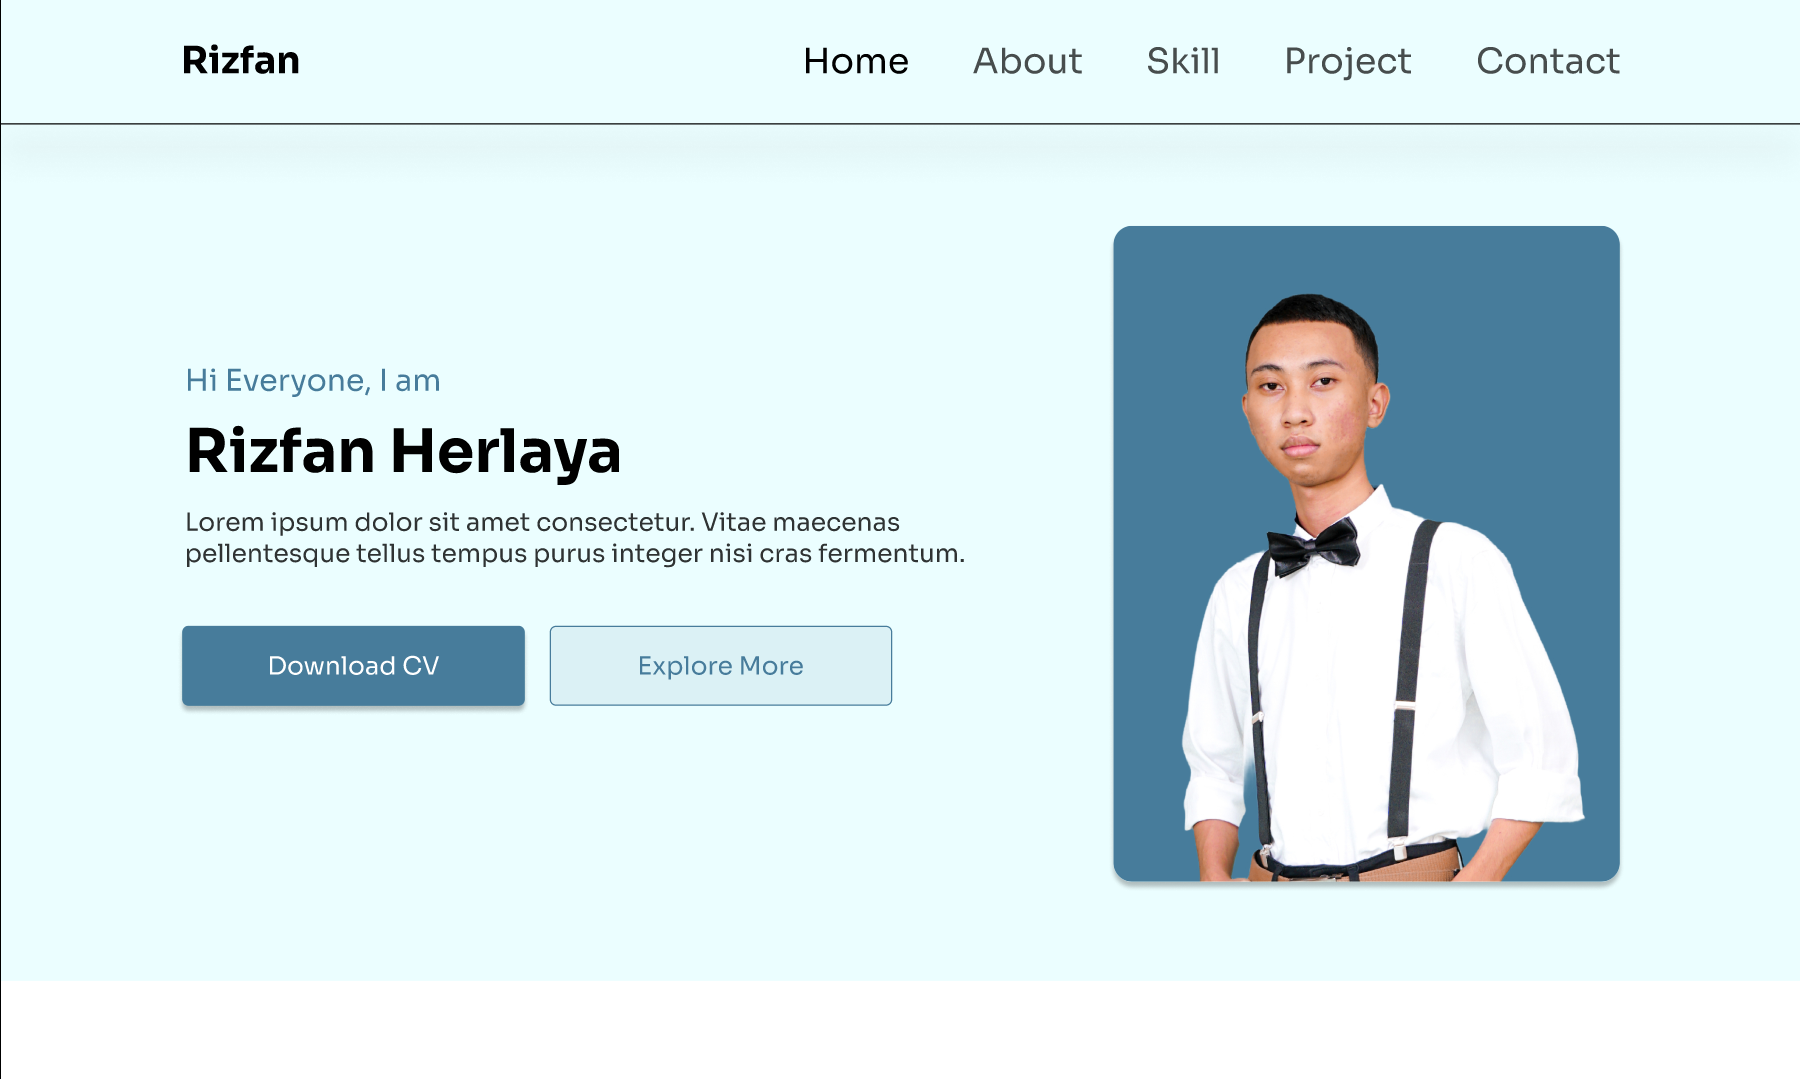
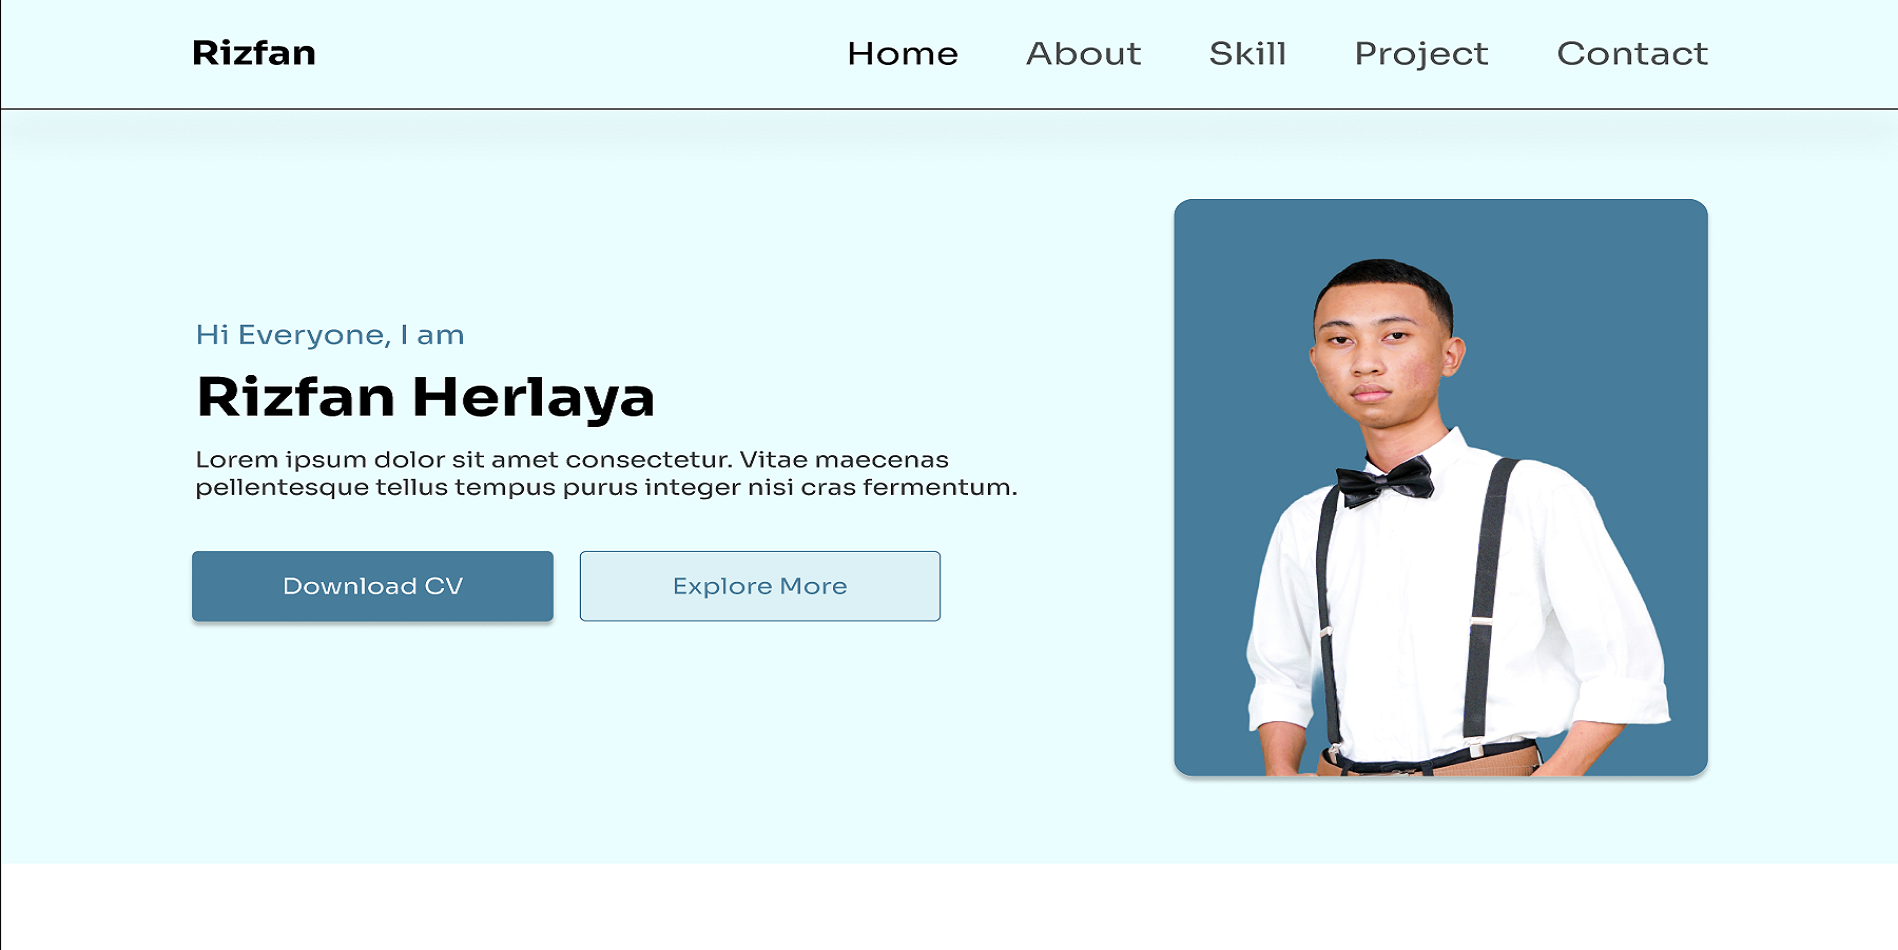
projet bakeli2

diff --git a/index.html b/index.html
@@ -3,42 +3,41 @@
 <head>
     <meta charset="UTF-8">
     <meta name="viewport" content="width=device-width, initial-scale=1.0">
-    <title>Document</title>
+    <title>Document</title> <source>
     <link rel="stylesheet" href="style.css">
+    <script src="bootstrap/js/bootstrap.min.js"></script>
     <link rel="stylesheet" href="bootstrap/css/bootstrap.min.css">
     
 </head>
 <body>
-    <nav id="nav" class="navbar navbar-expand-lg navbar-light sticky-top ">
-        <div class="container-fluid">
-          <a class="navbar-brand fw-bold " href="#">FRIZAN</a>
-          <button class="navbar-toggler collapsed" type="button" data-bs-toggle="collapse" data-bs-target="#navbarSupportedContent" aria-controls="navbarSupportedContent" aria-expanded="false" aria-label="Toggle navigation">
-            <span class="navbar-toggler-icon"></span>
-          </button>
-          <div>
-            <div class="navbar-collapse collapse" id="navbarSupportedContent" style="">
-                <ul  class="navbar-nav ms-auto mb-2 mb-lg-0">
-                  <li class="nav-item">
-                    <a  class="nav-link active" aria-current="page" href="#">Home</a>
-                  </li>
-                  <li class="nav-item">
-                    <a class="nav-link active" aria-current="page" href="#">About</a>
-                  </li>
-                  <li class="nav-item">
-                    <a class="nav-link active" aria-current="page" href="#"> Skill</a>
-                  </li>
-                  <li class="nav-item">
-                    <a class="nav-link active" aria-current="page" href="#">Project</a>
-                  </li>
-                  <li class="nav-item">
-                    <a class="nav-link active" aria-current="page" href="#">Contact</a>
-                  </li>
-                </ul>
-              </div>
-          </div>
+        <nav id="navv" class="navbar navbar-expand-lg navbar-light ">
+           <strong> <a class="navbar-brand" href="#">Rizfan</a> </strong> 
+            <button class="navbar-toggler" type="button" data-toggle="collapse" data-target="#navbarSupportedContent" aria-controls="navbarSupportedContent" aria-expanded="false" aria-label="Toggle navigation">
+              <span class="navbar-toggler-icon"></span>
+            </button>
           
-        </div>
-    </nav>
+            <div class="collapse navbar-collapse" id="navbarSupportedContent">
+              <ul class="navbar-nav ml-auto">
+                <li class="nav-item active">
+                  <a class="nav-link" href="#">Home <span class="sr-only">(current)</span></a>
+                </li>
+                <li class="nav-item">
+                  <a class="nav-link" href="#">About</a>
+                </li>
+                <li class="nav-item">
+                  <a class="nav-link" href="#">Skill</a>
+                </li>
+                <li class="nav-item">
+                  <a class="nav-link" href="#">Project</a>
+                </li>
+                <li class="nav-item">
+                  <a class="nav-link" href="#">Contact</a>
+                </li>
+              </ul>
+            </div>
+          </nav>
+ 
+   
     
         
     <div class="tout2">
@@ -52,8 +51,14 @@
                          repre eaque nisi ea minus distinctio 
                      </p>
                      </div>
-                     <input class="down" type="button" value="Download Cv">
-                     <input type="button" value="Explore More">
+                     <div>
+                        <button class="dwcv" type="submit">Download Cv
+                            <img class="dwn" src="image/dwn.png" alt="">
+                        </button>
+                        <button id="cvv" type="submit">Explore More
+
+                        </button>
+                     </div>
                  </div>
                  <div id="d2" class="col-md-4 col-sm-12">
                      <section class="sec">
@@ -90,7 +95,7 @@
             </div>
         </div>
     </div>
-    <div id="cont" class="containere">
+    <div id="cont" class=" col-12 containere">
         <div class="col">
             <h5 class="Skill">Skills</h5>
             <h2>What I am capable of?</h2>
@@ -108,55 +113,108 @@
         </div>
     </div>
 
-    <div id="conf" class="container">
-        <div class="">
-            <div class="pro">
-                <h5 class="Skill">Projet</h5>
-                <h1>What I have made?</h1><br>
-            </div>
-            
-            <div class="row">
-                <div id="moo" class="col" > 
-                    <img class="ho1" src="image/homme1.png" alt="">
-                    <h6>Portfolio Website Designe</h6>
-                    <p>Lorem ipsum dolor sit consecteur.</p>
-                    <p class="figma">figma</p>
+    <div class="porfo">
+        <section class="div">
+            <div class="container">
+                <h5 class="Skill">Projects</h5>
+                        <h2>What I have made?</h2><br>
+                <div class="row ">
+                    <div class="col-md-4" >
+                            <div class="box">
+                                <img src="image/homme1.png" alt="" width="289">
+                                <div class="figma">
+                                    <p><strong>Porfolio Website Design</strong><br>
+                                        lorem ipsum sit amet consectetur
+                                    </p>
+                                    <p class="Ho">Figma</p>
+                                </div>
+                            </div>
+                    </div>
+                    
+                    <div class="col-md-4">
+                        <div class="box">
+                            <img src="image/homme2.png" alt="" width="289">
+                            <div class="figma">
+                                <p><strong>LitterCycle Echange</strong><br>
+                                    lorem ipsum sit amet consectetur
+                                </p>
+                                <p class="Ho">Live view &nbsp;&nbsp;&nbsp;&nbsp; Github &nbsp;&nbsp;&nbsp;&nbsp; Figma</p>
+                                
+                            </div>
+                        </div>
+                    </div> 
+                
+                    <div class="col-md-4">
+                        <div class="box">
+                            <img src="image/homme3.png" alt="" width="289">
+                            <div class="figma">
+                                <p><strong>Edubix</strong><br>
+                                        lorem ipsum sit amet consectetur
+                                    </p>
+                                    <p class="Ho">Live view &nbsp;&nbsp;&nbsp;&nbsp; Github</p>
+                                    
+                                </div>
+                            </div>
+                        </div>  
+                                
+                    
+                    </div>
                 </div>
-                <div id="moo" class="col"> 
-                    <img class="ho1" src="image/homme2.png" alt="">
-                    <h6>Portfolio Website Designe</h6>
-                    <p>Lorem ipsum dolor sit consecteur.</p>
-                    <p class="figma">figma</p>
-                </div>
-                <div id="moo" class="col"> 
-                    <img class="ho1" src="image/homme3.png" alt="">
-                    <h6>Portfolio Website Designe</h6>
-                    <p>Lorem ipsum dolor sit consecteur.</p>
-                    <p class="figma">figma</p>
-                </div>
             </div>
-        </div>
-        <div id="id" class="row">
-            <div id="moo" class="col">
-                <img class="ho1" src="image/homme4.png" alt="">
-                <h6>PPDB SMK Telesandi Bekasi</h6>
-                <p>Lorem ipsum dolor sit consecteur.</p>
-                <p class="figma">Live view</p>
-            </div>
-            <div id="moo" class="col">
-                <img class="ho1" src="image/homme4.png" alt="">
-                <h6>PPDB SMK Telesandi Bekasi</h6>
-                <p>Lorem ipsum dolor sit consecteur.</p>
-                <p class="figma">Live view</p>
-            </div>
-            <div id="moo" class="col">
-                <img class="ho1" src="image/homme4.png" alt="">
-                <h6>PPDB SMK Telesandi Bekasi</h6>
-                <p>Lorem ipsum dolor sit consecteur.</p>
-                <p class="figma">Live view</p>
-            </div>
-        </div>
+        </section>
     </div>
+    <div class="porfo">
+        <section class="div">
+            <div class="container">
+                <div class="row ">
+                    <div class="col-md-4" >
+                        
+                        <div class="box">
+                            <img src="image/homme4.png" alt="" width="289">
+                            <div class="figma">
+                                <p><strong>PPDB SMK Telesanl Bekasi</strong><br>
+                                    lorem ipsum sit amet consectetur
+                                </p>
+                                <p class="Ho">Live view</p>
+                            </div>
+                        </div>
+                    </div>
+                    
+                    <div class="col-md-4">
+                        <div class="box">
+                            <img src="image/homme4.png" alt="" width="289">
+                            <div class="figma">
+                                <p><strong>PPDB SMK Telesanl Bekasi</strong><br>
+                                    lorem ipsum sit amet consectetur
+                                </p>
+                                <p class="Ho">Live view</p>
+                                
+                            </div>
+                        </div>
+                    </div> 
+                    
+                        <div class="col-md-4">
+                            <div class="box">
+                                <img src="image/homme4.png" alt="" width="289">
+                                <div class="figma">
+                                    <p><strong>PPDB SMK Telesanl Bekasi</strong><br>
+                                        lorem ipsum sit amet consectetur
+                                    </p>
+                                    <p class="Ho">Live view</p>
+                                    
+                                </div>
+                            </div>
+                        </div>  
+                            
+                
+                </div>
+            
+            </div>
+        </section>
+    </div>
+    
+    
+    
     <footer>
         <div id="fin" class="container">
             <div class="row">
@@ -179,6 +237,11 @@
         </div>
     </footer>
     
-    
+    <script src="https://ajax.googleapis.com/ajax/libs/jquery/3.5.1/jquery.min.js"></script>
+    <script src="https://cdnjs.cloudflare.com/ajax/libs/popper.js/1.16.0/umd/popper.min.js"></script>
+    <script src="https://maxcdn.bootstrapcdn.com/bootstrap/4.5.2/js/bootstrap.min.js"></script>
+
+
+
 </body>
 </html>

diff --git a/style.css b/style.css
@@ -8,17 +8,12 @@ text-align: left;
 margin-left: 150px;
 }
 
-.navbar-light .navbar-toggler {
-    color: rgba(0,0,0,.5);
-    border-color: rgba(0,0,0,.1);
-    margin-right: -200px;
-}
-   
+
 #ul{
-    margin-right: 150px;
+    margin-right: -150px;
     
 }
-#nav{
+#navv{
     
     background-color: rgb(199, 238, 203);
     border-bottom: solid 1px black;
@@ -40,14 +35,18 @@ margin-left: 150px;
     
 }
 .container{
-    background-color:  rgb(199, 238, 203);
     
-    margin-top: px;
     
 }
-#cono{
-    
+
+.Ho{
+    color: #457B9D;
 }
+
+.porfo{
+    margin-top: 30px;
+}
+
 .tout2{
     background-color:  rgb(199, 238, 203);
     margin-top: ;
@@ -62,8 +61,32 @@ margin-left: 150px;
     margin-left: -10px;
 }
 .ing{
-    width: 350px;
+    width: 269px;
     margin-top: 40px;
+}
+.dwn{
+    width: 20px  
+}
+.dwcv{ 
+    color: white;
+    text-align: center;
+    vertical-align: middle;
+    cursor: pointer;
+    background-color: #457B9D;
+    border: 1px solid #457B9D;
+    padding: .375rem .75rem;
+    border-radius: .25rem;
+}
+#cvv{
+    color:  #457B9D;
+    text-align: center;
+    vertical-align: middle;
+    cursor: pointer;
+    background-color: #457B9D 10%;
+    border: 1px solid #457B9D;
+    padding: .375rem .75rem;
+    border-radius: .25rem;
+    
 }
 .about{
     
@@ -90,29 +113,23 @@ margin-left: 150px;
 .col{
     margin-top: px;
 }
-#conf{
+
+.div{
     background-color: white;
-    
-}
-.pro{
     text-align: center;
-    margin-top: 30px;
 }
+
 .figma{
-    color: #457B9D;
-    margin-top: -10px;
+    text-align: left;
+    margin-left: 30px;
 }
 
-.ho1{
-    width: 290px;   
+.box{
+    box-shadow: 0px 4px 4px 0px #00000040;
+    flex-direction: column;
+    border: solid 1px #00000040 ;
+    border-radius: 5px;
 }
-#homm{
-    
-}
-#id{
-    margin-top: 30px;
-}
-
 
 
 .foo{
@@ -133,8 +150,5 @@ footer{
 .copyright{
     margin-top: 30px;
 }
-#moo{
-    box-shadow: 0px 4px 4px 0px #00000040;
-    ;
-}
+
 
